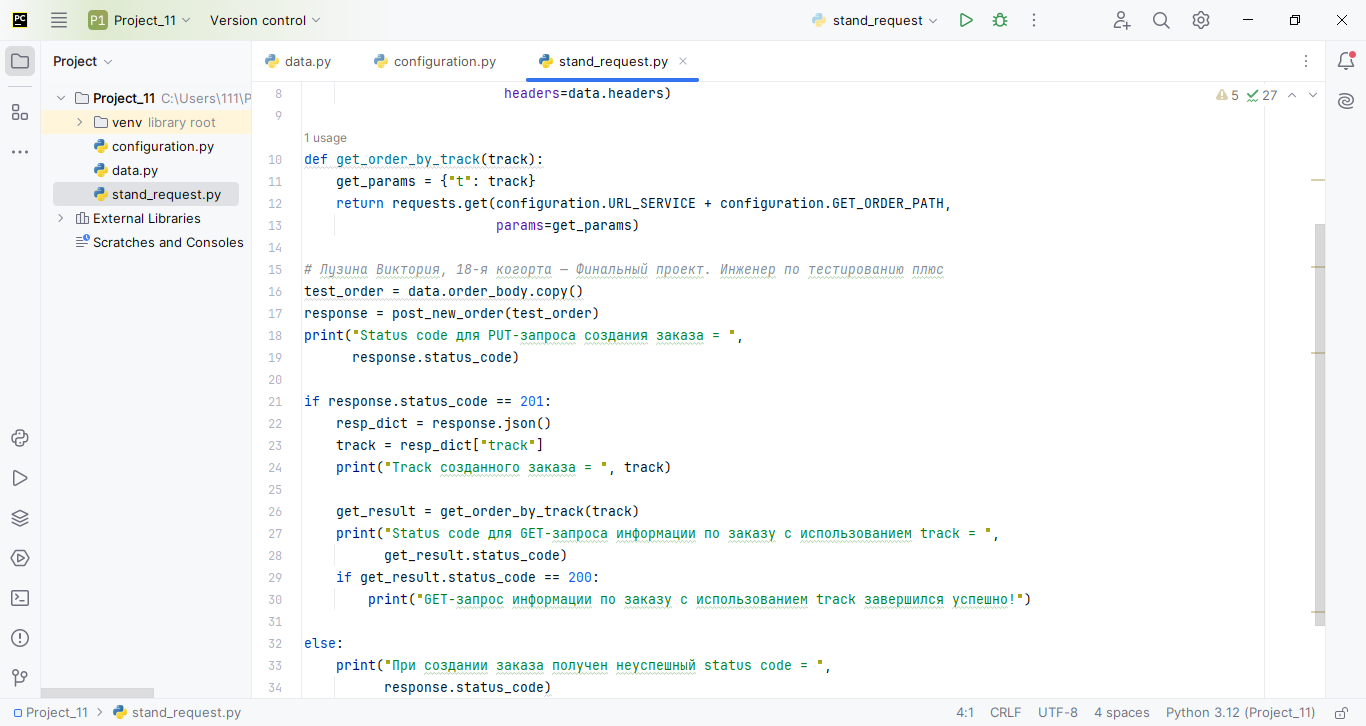
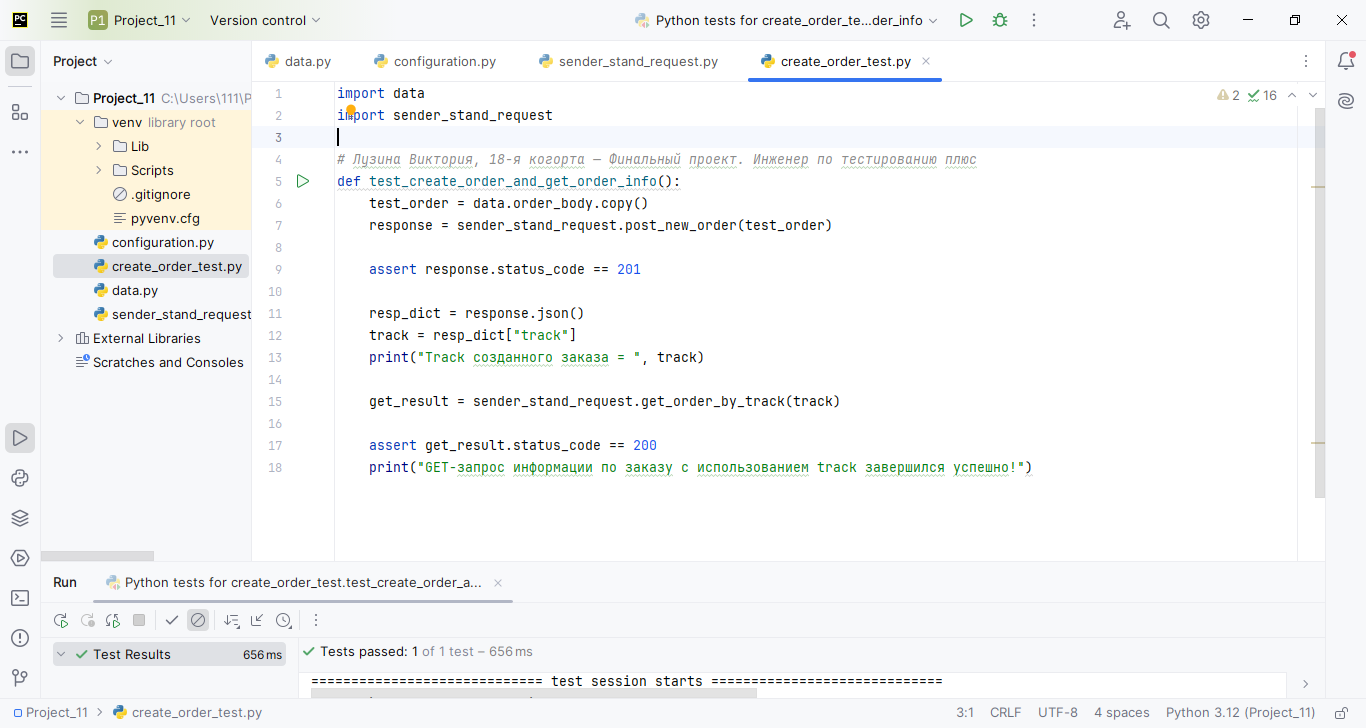
Дипломная работа

diff --git a/python/create_order_test.py b/python/create_order_test.py
@@ -1,0 +1,18 @@
+import data
+import sender_stand_request
+
+# Лузина Виктория, 18-я когорта — Финальный проект. Инженер по тестированию плюс
+def test_create_order_and_get_order_info():
+    test_order = data.order_body.copy()
+    response = sender_stand_request.post_new_order(test_order)
+
+    assert response.status_code == 201
+
+    resp_dict = response.json()
+    track = resp_dict["track"]
+    print("Track созданного заказа = ", track)
+
+    get_result = sender_stand_request.get_order_by_track(track)
+
+    assert get_result.status_code == 200
+    print("GET-запрос информации по заказу с использованием track завершился успешно!")

diff --git a/python/sender_stand_request.py b/python/sender_stand_request.py
@@ -1,0 +1,13 @@
+import configuration
+import requests
+import data
+
+def post_new_order(body):
+    return requests.post(configuration.URL_SERVICE + configuration.CREATE_ORDER_PATH,
+                         json=body,
+                         headers=data.headers)
+
+def get_order_by_track(track):
+    get_params = {"t": track}
+    return requests.get(configuration.URL_SERVICE + configuration.GET_ORDER_PATH,
+                        params=get_params)

diff --git a/python/configuration.py b/python/configuration.py
@@ -1,3 +1,3 @@
-URL_SERVICE = "https://43da086c-e773-4a1c-a97a-eaf36fc90cf6.serverhub.praktikum-services.ru"
+URL_SERVICE = "https://667339db-1cd4-481c-a428-cb2d2e8350b4.serverhub.praktikum-services.ru"
 CREATE_ORDER_PATH = "/api/v1/orders/"
 GET_ORDER_PATH = "/api/v1/orders/track/"
